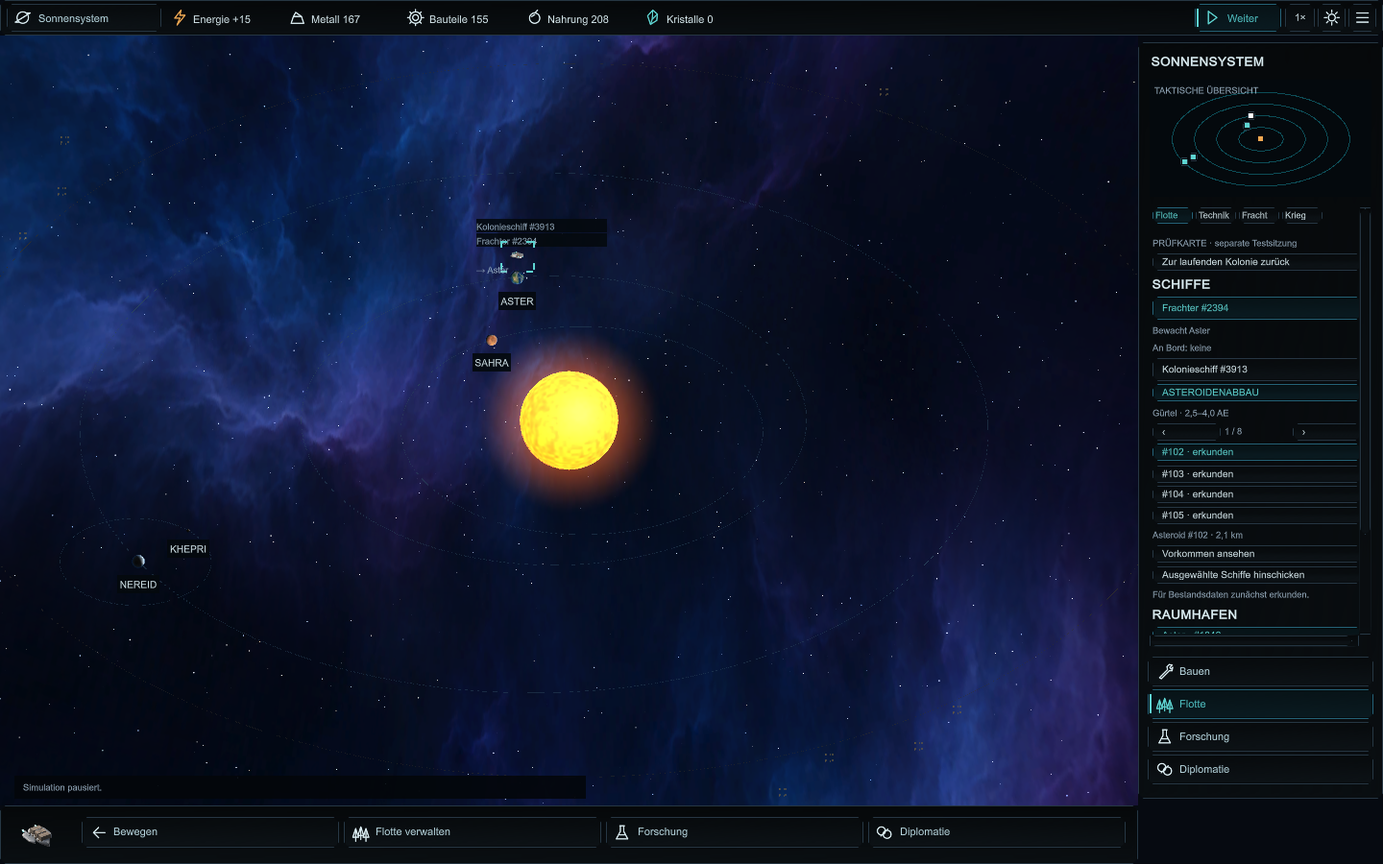
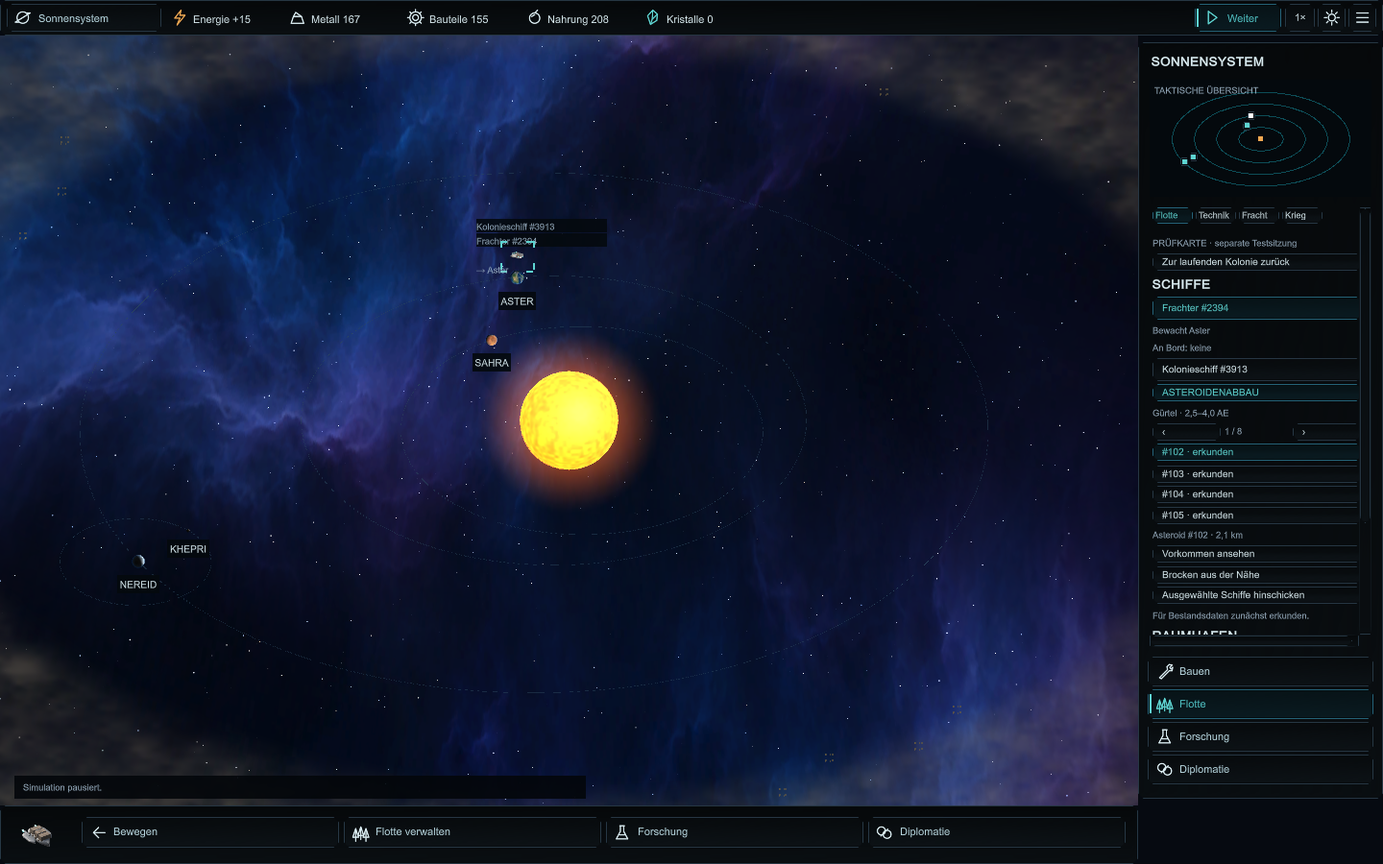
feat: add belt dust and selectable stellar information (1.0.14)

diff --git a/Assets/PlanetOne/Runtime/PrototypeHud.cs b/Assets/PlanetOne/Runtime/PrototypeHud.cs
@@ -11,7 +11,7 @@ namespace PlanetOne.Runtime
         private GUIStyle centerStyle,treeStyle;
         private readonly Dictionary<string,Texture2D> objectPortraits=new Dictionary<string,Texture2D>();
         private static readonly string[] SectionNames={"Übersicht","Bauen","Bodentruppen","Flotte","Forschung","Versorgung","Diplomatie"};
-        private bool HasSelection {get{return openPlanetId==0?selectedShips.Count>0 || simulation.FindPlanet(selectedPlanetId)!=null:selectedBuildingId!=0 || selectedUnits.Count>0;}}
+        private bool HasSelection {get{return openPlanetId==0?StarSelected || selectedShips.Count>0 || simulation.FindPlanet(selectedPlanetId)!=null:selectedBuildingId!=0 || selectedUnits.Count>0;}}
         private bool SelectionCardVisible {get{return CurrentLayout!=InterfaceLayout.CommandCenter && contextOpen && !panelOpen && HasSelection;}}
         private Rect SelectionCardRect(float width){return new Rect(width-302,TopHeight+22,286,244);}
         public bool IsContextCardOpen {get{return SelectionCardVisible;}}
@@ -81,6 +81,7 @@ namespace PlanetOne.Runtime
             if(showingSpacePanel && panelOpen){DrawSpacePanel();return;}
             if(openPlanetId==0)
             {
+                if(StarSelected){DrawStarDetails();return;}
                 if(selectedShips.Count>0 && !panelOpen){DrawSelectionSummary(new Rect(0,0,252,190),false);GUILayout.Space(195);if(GUILayout.Button("Flotte verwalten",buttonStyle,GUILayout.Height(34)))OpenPresentationSection(3);return;}
                 var p=simulation.FindPlanet(selectedPlanetId);
                 if(p!=null && simulation.IsPlanetKnown(PlayerFactionId,p.Id))
@@ -183,6 +184,7 @@ namespace PlanetOne.Runtime
             {labels[0]="Bewegen";icons[0]=HudIcon.Back;actions[0]=delegate{militaryTargetMode=CommandKind.MoveUnit;};labels[1]="Halten";icons[1]=HudIcon.Stop;actions[1]=delegate{foreach(long id in selectedUnits)RequestUnitOrder(id,CommandKind.HoldPosition);};labels[2]="Truppen";icons[2]=HudIcon.Units;actions[2]=delegate{OpenPresentationSection(2);};}
             else if(openPlanetId==0 && selectedShips.Count>0)
             {labels[0]="Bewegen";icons[0]=HudIcon.Back;actions[0]=BeginShipMove;labels[1]="Flotte verwalten";}
+            else if(StarSelected){labels[0]="Sterninfos";icons[0]=HudIcon.Info;actions[0]=OpenStarDetails;}
             else if(openPlanetId==0 && selectedPlanetId>0)
             {labels[0]="Oberfläche";icons[0]=HudIcon.Planet;actions[0]=delegate{OpenSelectedPlanet();};}
             else if(openPlanetId!=0)
@@ -197,10 +199,11 @@ namespace PlanetOne.Runtime
             DrawSelectionSummary(new Rect(card.x+14,card.y+14,card.width-28,158),false);
             if(HudButton(new Rect(card.xMax-35,card.y+8,27,27),"",HudIcon.Close,false,"Auswahlkarte schließen"))CloseContextPanel();
             string action=openPlanetId==0 && selectedShips.Count==0?"Oberfläche öffnen":"Details und Befehle";
+            if(StarSelected)action="Sterndetails";
             var selectedWorld=simulation.FindPlanet(selectedPlanetId);
             if(openPlanetId==0 && selectedShips.Count==0 && selectedWorld!=null && PlanetEnvironment.Airborne(selectedWorld))action="Atmosphäre öffnen";
-            if(HudButton(new Rect(card.x+14,card.yMax-54,card.width-28,38),action,openPlanetId==0 && selectedShips.Count==0?HudIcon.Planet:HudIcon.Info))
-            {if(openPlanetId==0 && selectedShips.Count==0)OpenSelectedPlanet();else {panelOpen=true;contextOpen=true;if(openPlanetId==0)showingSpacePanel=true;}}
+            if(HudButton(new Rect(card.x+14,card.yMax-54,card.width-28,38),action,StarSelected?HudIcon.Info:openPlanetId==0 && selectedShips.Count==0?HudIcon.Planet:HudIcon.Info))
+            {if(StarSelected)OpenStarDetails();else if(openPlanetId==0 && selectedShips.Count==0)OpenSelectedPlanet();else {panelOpen=true;contextOpen=true;if(openPlanetId==0)showingSpacePanel=true;}}
         }
 
         private int KnownPlanetOwner(PlanetState p)
@@ -208,7 +211,7 @@ namespace PlanetOne.Runtime
         private Texture CurrentPortrait()
         {
             if(openPlanetId==0)
-            {var ship=simulation.State.Ships.Find(s=>selectedShips.Contains(s.Id) && !s.Destroyed && !s.Consumed);if(ship!=null)return ShipPortrait(ship.Kind);var p=simulation.FindPlanet(selectedPlanetId);return p==null?null:PlanetPortrait(p);}
+            {if(StarSelected)return StarPortrait();var ship=simulation.State.Ships.Find(s=>selectedShips.Contains(s.Id) && !s.Destroyed && !s.Consumed);if(ship!=null)return ShipPortrait(ship.Kind);var p=simulation.FindPlanet(selectedPlanetId);return p==null?null:PlanetPortrait(p);}
             var planet=simulation.FindPlanet(openPlanetId);var b=FindSelected(planet);if(b!=null)return BuildingIcon(b.Kind);
             var u=planet.Units.Find(v=>selectedUnits.Contains(v.Id)&&!v.Destroyed);return u==null?null:ObjectPortrait("unit"+u.Kind+"-"+planet.Kind,r=>BuildVehicleModel(r,u.Kind,Cyan),0.7f);
         }
@@ -219,6 +222,7 @@ namespace PlanetOne.Runtime
             {
                 var ship=simulation.State.Ships.Find(s=>selectedShips.Contains(s.Id)&&!s.Destroyed&&!s.Consumed);
                 if(ship!=null){title=Definitions.Ships[(int)ship.Kind].Name;type="Eigene Flotte · #"+ship.Id;status=ship.Status;extra="Besatzung  "+ship.Crew;health=(float)(ship.Health/Definitions.SpaceWeapons[(int)ship.Kind].Health);}
+                else if(StarSelected){title="Zentralstern";type=StellarReference.SpectralType+" · Hauptreihenstern";status="Ca. "+StellarReference.EffectiveTemperatureKelvin.ToString("N0")+" K · 1 Sonnenmasse";extra="1 Sonnenradius · 1 Sonnenleuchtkraft";}
                 else {var p=simulation.FindPlanet(selectedPlanetId);if(p!=null){title=p.Name;type=PlanetEnvironment.Name(p.Kind);int owner=KnownPlanetOwner(p);status=owner==PlayerFactionId?"Kolonie aktiv · "+p.Population+" Bewohner":owner==0?"Unbesiedelt":owner<0?"Besitz unbekannt":"Fremde Kolonie";extra=PlanetEnvironment.StellarAu(simulation.State,p).ToString("0.00")+" AE · "+PlanetEnvironment.RadiusEarths(p.Kind).ToString("0.00")+" Erdradien";}}
             }
             else

diff --git a/Assets/PlanetOne/Runtime/PrototypeAsteroids.cs b/Assets/PlanetOne/Runtime/PrototypeAsteroids.cs
@@ -66,24 +66,21 @@ namespace PlanetOne.Runtime
         }
         private void BuildAsteroidViews()
         {
+            foreach(var mesh in beltDustMeshes)Destroy(mesh);beltDustMeshes.Clear();
             asteroidViews.Clear();selectedAsteroidId=0;asteroidPage=0;miningPanel=false;
             foreach(var a in simulation.State.Asteroids)
             {
-                // At most one tenth of the moon's diameter, even at the mesh's widest point.
-                float size=.004f+(float)a.DiameterKm*.0016f;
+                // Three times larger on request; still smaller than a quarter of the moon.
+                float size=.012f+(float)a.DiameterKm*.0048f;
                 var view=Rock(spaceRoot,Vector3.zero,new Vector3(size,size*.7f,size*.9f),(int)a.Id);
                 view.name="Asteroid "+a.Id;view.GetComponent<Renderer>().sharedMaterial=ArtMaterial("Fels",new Color(.43f,.39f,.34f),false);
                 asteroidViews[a.Id]=view;
             }
-            // A chart boundary, not a luminous band or a solid ring of rocks.
-            foreach(var b in simulation.State.AsteroidBelts)foreach(double radius in new[]{b.InnerRadius,b.OuterRadius})
-            {
-                var ring=MakeLine("Gürtelgrenze",spaceRoot,new Color(.16f,.14f,.10f),.012f,true);ring.positionCount=128;
-                for(int i=0;i<128;i++){double angle=i*OrbitalMotion.Tau/128;ring.SetPosition(i,SpacePosition(System.Math.Cos(angle)*radius,System.Math.Sin(angle)*radius));}
-            }
+            foreach(var belt in simulation.State.AsteroidBelts)BuildBeltDust(belt);
         }
         private void UpdateAsteroidViews()
         {
+            UpdateBeltDust();
             foreach(var a in simulation.State.Asteroids)
             {
                 var p=simulation.GetAsteroidPosition(a);var view=asteroidViews[a.Id];
@@ -93,10 +90,15 @@ namespace PlanetOne.Runtime
         }
         private bool PickAsteroid(Vector2 point)
         {
-            long closest=0;float best=12;
+            long closest=0;float best=float.MaxValue;
             foreach(var a in simulation.State.Asteroids)
-            {var screen=sceneCamera.WorldToScreenPoint(asteroidViews[a.Id].position);float d=Vector2.Distance(screen,point);if(screen.z>0 && d<best){closest=a.Id;best=d;}}
+            {var screen=sceneCamera.WorldToScreenPoint(asteroidViews[a.Id].position);float d=Vector2.Distance(screen,point);if(screen.z>0 && d<Mathf.Max(12,AsteroidScreenRadius(a.Id)+5) && d<best){closest=a.Id;best=d;}}
             if(closest==0)return false;SelectAsteroid(closest);return true;
+        }
+        private float AsteroidScreenRadius(long id)
+        {
+            var size=asteroidViews[id].GetComponent<Renderer>().bounds.size;
+            return Mathf.Max(size.x,Mathf.Max(size.y,size.z))*sceneCamera.pixelHeight/(4*sceneCamera.orthographicSize);
         }
         private void DrawAsteroidLabels(float scale)
         {
@@ -104,8 +106,9 @@ namespace PlanetOne.Runtime
             {
                 var point=sceneCamera.WorldToScreenPoint(asteroidViews[a.Id].position);if(point.z<0 || !sceneCamera.pixelRect.Contains(point))continue;
                 var pos=new Vector2(point.x/scale,(Screen.height-point.y)/scale);bool selected=a.Id==selectedAsteroidId;
-                if(selected || spaceZoom<50)DrawTargetBrackets(new Rect(pos.x-4,pos.y-4,8,8),selected?Amber:new Color(.42f,.36f,.24f,.6f));
-                if(selected)GUI.Label(new Rect(pos.x+10,pos.y-8,190,20),"Asteroid #"+a.Id+(simulation.IsAsteroidVisible(PlayerFactionId,a)?" · "+a.RemainingOre+" Erz":" · unerkundet"),smallStyle);
+                float radius=Mathf.Max(4,AsteroidScreenRadius(a.Id)/scale+2);
+                if(selected || spaceZoom<50)DrawTargetBrackets(new Rect(pos.x-radius,pos.y-radius,radius*2,radius*2),selected?Amber:new Color(.42f,.36f,.24f,.6f));
+                if(selected)GUI.Label(new Rect(pos.x+radius+6,pos.y-8,190,20),"Asteroid #"+a.Id+(simulation.IsAsteroidVisible(PlayerFactionId,a)?" · "+a.RemainingOre+" Erz":" · unerkundet"),smallStyle);
             }
         }
         private void DrawMiningPanel()
@@ -124,6 +127,7 @@ namespace PlanetOne.Runtime
             var selected=simulation.State.Asteroids.Find(a=>a.Id==selectedAsteroidId);if(selected==null)return;
             GUILayout.Label("Asteroid #"+selected.Id+" · "+selected.DiameterKm.ToString("0.0")+" km",smallStyle);
             if(GUILayout.Button("Vorkommen ansehen",buttonStyle))FocusAsteroid(selected.Id);
+            if(GUILayout.Button("Brocken aus der Nähe",buttonStyle))InspectAsteroid(selected.Id);
             if(GUILayout.Button("Ausgewählte Schiffe hinschicken",buttonStyle))foreach(long id in selectedShips)RequestAsteroidApproach(id,selected.Id);
             bool visible=simulation.IsAsteroidVisible(PlayerFactionId,selected);
             GUILayout.Label(visible?"Verfügbar: "+(selected.RemainingOre-selected.ReservedOre)+" Erz":"Für Bestandsdaten zunächst erkunden.",smallStyle);

diff --git a/Assets/PlanetOne/Runtime/PrototypeSmokeRunner.cs b/Assets/PlanetOne/Runtime/PrototypeSmokeRunner.cs
@@ -588,7 +588,7 @@ namespace PlanetOne.Runtime
             Require(mining.IsAsteroidVisible(1,deposit),"Scouting reveals the real deposit");
             foreach(var asteroid in mining.State.Asteroids) {
                 var size=controller.AsteroidView(asteroid.Id).GetComponent<Renderer>().bounds.size;
-                Require(Mathf.Max(size.x,Mathf.Max(size.y,size.z))<controller.CelestialView(3).lossyScale.x*.1f,"Asteroid geometry remains below a tenth of the moon diameter: "+asteroid.Id);
+                Require(Mathf.Max(size.x,Mathf.Max(size.y,size.z))<controller.CelestialView(3).lossyScale.x*.25f,"Enlarged asteroid geometry remains below a quarter of the moon diameter: "+asteroid.Id);
             }
             Require(controller.RequestSpaceOrder(CommandKind.MineAsteroid,miner.Id,deposit.Id,1,amount:12),"Mining submitted through the common command adapter");
             AdvanceSeconds(8);yield return null;
@@ -601,6 +601,26 @@ namespace PlanetOne.Runtime
             Require(miner.Mining==null && miner.Freight==null && miner.Cargo[1]==0 && mining.State.SpaceMinedOre==12 && deposit.InitialOre-deposit.RemainingOre==12,"Mined ore returns and unloads once at a working port");
             controller.SetInterfaceLayout(InterfaceLayout.CommandCenter);controller.SelectShip(miner.Id);controller.SelectAsteroid(deposit.Id);
             yield return Capture("asteroid-delivered.png");Require(captureFailure==null,captureFailure??"Mining delivery captured");
+            string beforeMapInspection=SaveCodec.ToJson(mining.State);
+            controller.ShowBeltOverview();yield return null;
+            Require(controller.BeltDustVisibility>.95f,"Belt dust provides an overview cue");
+            yield return Capture("asteroid-dust-overview.png");Require(captureFailure==null,captureFailure??"Dust overview captured");
+            controller.InspectAsteroid(deposit.Id);yield return null;
+            Require(controller.BeltDustVisibility<.01f,"Dust recedes on approach to reveal individual rocks");
+            yield return Capture("asteroid-closeup.png");Require(captureFailure==null,captureFailure??"Individual asteroid captured");
+            foreach(InterfaceLayout layout in Enum.GetValues(typeof(InterfaceLayout)))
+            {
+                controller.SetInterfaceLayout(layout);controller.ShowBeltOverview();yield return null;
+                Vector2 starPoint=Camera.main.WorldToScreenPoint(Vector3.zero);
+                Require(controller.SelectStarAtScreen(starPoint) && controller.StarSelected,"Star click selects its own information card: "+layout);
+                Require(!controller.OpenSelectedPlanet() && controller.OpenPlanetId==0,"Star selection offers no planetary surface: "+layout);
+                controller.SetSettingsVisible(true);Require(!controller.SelectStarAtScreen(starPoint),"Modal settings block star clicks: "+layout);controller.SetSettingsVisible(false);
+                Require(!controller.SelectStarAtScreen(new Vector2(8,Screen.height-8)),"HUD clicks cannot select the star: "+layout);
+                yield return Capture("star-selection-"+layout+".png");Require(captureFailure==null,captureFailure??"Star card captured");
+                controller.OpenStarDetails();yield return null;yield return Capture("star-details-"+layout+".png");Require(captureFailure==null,captureFailure??"Star information captured");
+                Require(controller.SelectPlanet(1) && !controller.StarSelected,"Planet selection replaces star selection: "+layout);
+            }
+            Require(SaveCodec.ToJson(mining.State)==beforeMapInspection,"Belt zoom and star information never mutate resources orders or time");
         }
 
         private void QueueBuild(int planetId, BuildingKind kind, int x, int y)

diff --git a/Assets/PlanetOne/Runtime/PrototypeBeltDust.cs b/Assets/PlanetOne/Runtime/PrototypeBeltDust.cs
@@ -1,0 +1,52 @@
+using System.Collections.Generic;
+using PlanetOne.Core;
+using UnityEngine;
+
+namespace PlanetOne.Runtime
+{
+    public sealed partial class PrototypeController
+    {
+        private readonly List<Mesh> beltDustMeshes=new List<Mesh>();
+        private Material beltDustMaterial;
+        public float BeltDustVisibility {get{return beltDustMaterial==null?0:beltDustMaterial.GetFloat("_Visibility");}}
+        private void BuildBeltDust(AsteroidBelt belt)
+        {
+            if(beltDustMaterial==null)beltDustMaterial=new Material(Resources.Load<Shader>("AsteroidDust"));
+            const int segments=192;
+            var vertices=new Vector3[(segments+1)*2];var uv=new Vector2[vertices.Length];var triangles=new int[segments*6];
+            for(int i=0;i<=segments;i++)
+            {
+                double angle=i*OrbitalMotion.Tau/segments;
+                for(int edge=0;edge<2;edge++)
+                {
+                    double radius=edge==0?belt.InnerRadius:belt.OuterRadius;
+                    vertices[i*2+edge]=SpacePosition(System.Math.Cos(angle)*radius,System.Math.Sin(angle)*radius,-.12f);
+                    uv[i*2+edge]=new Vector2((float)i/segments,edge);
+                }
+                if(i==segments)continue;int start=i*6,v=i*2;
+                triangles[start]=v;triangles[start+1]=v+2;triangles[start+2]=v+1;
+                triangles[start+3]=v+1;triangles[start+4]=v+2;triangles[start+5]=v+3;
+            }
+            var mesh=new Mesh {name="Weicher Asteroidenstaubring",vertices=vertices,uv=uv,triangles=triangles};mesh.RecalculateBounds();beltDustMeshes.Add(mesh);
+            var ring=new GameObject("Asteroidenstaub");ring.transform.SetParent(spaceRoot,false);ring.AddComponent<MeshFilter>().sharedMesh=mesh;
+            var renderer=ring.AddComponent<MeshRenderer>();renderer.sharedMaterial=beltDustMaterial;
+            renderer.shadowCastingMode=UnityEngine.Rendering.ShadowCastingMode.Off;renderer.receiveShadows=false;
+        }
+        private void UpdateBeltDust()
+        {
+            // The map-wide cue recedes smoothly near individual rocks. It never changes deposits.
+            if(beltDustMaterial!=null)beltDustMaterial.SetFloat("_Visibility",Mathf.SmoothStep(0,1,Mathf.InverseLerp(3,32,spaceZoom)));
+        }
+        public void ShowBeltOverview()
+        {
+            if(openPlanetId!=0)return;spaceFocus=Vector3.zero;
+            float extent=12;foreach(var belt in simulation.State.AsteroidBelts)extent=Mathf.Max(extent,(float)belt.OuterRadius*SpaceDistanceScale);
+            spaceZoom=extent*.82f;panelOpen=false;contextOpen=false;UpdateCamera();UpdateBeltDust();
+        }
+        public void InspectAsteroid(long id)
+        {
+            if(openPlanetId!=0)return;var a=simulation.State.Asteroids.Find(v=>v.Id==id);if(a==null)return;
+            SelectAsteroid(id);SetSpaceFocus(asteroidViews[id].position);spaceZoom=.25f;UpdateCamera();UpdateBeltDust();
+        }
+    }
+}

diff --git a/Assets/PlanetOne/Runtime/PrototypeStarSelection.cs b/Assets/PlanetOne/Runtime/PrototypeStarSelection.cs
@@ -1,0 +1,39 @@
+using PlanetOne.Core;
+using UnityEngine;
+
+namespace PlanetOne.Runtime
+{
+    public sealed partial class PrototypeController
+    {
+        public bool StarSelected {get{return openPlanetId==0 && selectedPlanetId==-1 && selectedShips.Count==0 && selectedAsteroidId==0;}}
+        public bool SelectStarAtScreen(Vector2 point)
+        {
+            if(openPlanetId!=0 || !IsWorldPoint(point))return false;
+            var centre=sceneCamera.WorldToScreenPoint(StarView.position);
+            float radius=StarDiameter*sceneCamera.pixelHeight/(4*sceneCamera.orthographicSize);
+            if(centre.z<=0 || Vector2.Distance(centre,point)>radius+4)return false;
+            selectedPlanetId=-1;selectedShips.Clear();selectedAsteroidId=0;miningPanel=false;contextOpen=true;panelOpen=false;
+            showingSpacePanel=false;showingDiplomacy=false;presentationSection=0;lastClickedPlanet=0;sidebarScroll=Vector2.zero;return true;
+        }
+        public void OpenStarDetails()
+        {if(!StarSelected)return;contextOpen=true;panelOpen=true;showingSpacePanel=false;showingDiplomacy=false;presentationSection=0;sidebarScroll=Vector2.zero;}
+        private Texture2D StarPortrait()
+        {
+            return ObjectPortrait("central-star",root=>{
+                var body=MakePrimitive(PrimitiveType.Sphere,"Stern",root,Vector3.zero,Vector3.one*1.5f,new Color(1,.5f,.055f));CreateStarCorona(body);
+            },1.6f);
+        }
+        private void DrawStarDetails()
+        {
+            GUILayout.Label("ZENTRALSTERN",headingStyle);Rect portrait=GUILayoutUtility.GetRect(160,100);GUI.DrawTexture(portrait,StarPortrait(),ScaleMode.ScaleToFit);
+            GUILayout.Label("Gelber Hauptreihenstern · "+StellarReference.SpectralType,bodyStyle);GUILayout.Space(10);
+            GUILayout.Label("Masse     "+StellarReference.MassSolar.ToString("0.0")+" Sonnenmassen",smallStyle);
+            GUILayout.Label("Radius     "+StellarReference.RadiusKm.ToString("N0")+" km",smallStyle);
+            GUILayout.Label("Temperatur     ca. "+StellarReference.EffectiveTemperatureKelvin.ToString("N0")+" K",smallStyle);
+            GUILayout.Label("Leuchtkraft     "+StellarReference.LuminositySolar.ToString("0.0")+" Sonnenleuchtkräfte",smallStyle);
+            GUILayout.Space(12);GUILayout.Label("Zentrum des Sternsystems. Sein Licht versorgt die Welten; Abstand und Atmosphäre bestimmen deren Klima.",mutedStyle);
+            GUILayout.Label("Nicht besiedelbar",smallStyle);
+            if(GUILayout.Button("Ansicht auf Stern zentrieren",buttonStyle))SetSpaceFocus(Vector3.zero);
+        }
+    }
+}

diff --git a/Assets/PlanetOne/Runtime/PrototypeController.cs b/Assets/PlanetOne/Runtime/PrototypeController.cs
@@ -138,6 +138,7 @@ namespace PlanetOne.Runtime
         private void OnDestroy()
         {
             if (hexMesh != null) Destroy(hexMesh);
+            foreach(var mesh in beltDustMeshes)Destroy(mesh);if(beltDustMaterial!=null)Destroy(beltDustMaterial);
             foreach(var mesh in modelMeshes.Values)Destroy(mesh);
             foreach(var material in celestialMaterials.Values)Destroy(material);
             foreach(var icon in hudIcons.Values)Destroy(icon);
@@ -214,6 +215,7 @@ namespace PlanetOne.Runtime
                 }
                 if (chosen != 0)
                 {SelectPlanet(chosen);if(lastClickedPlanet==chosen && Time.unscaledTime-lastPlanetClick<0.35f)OpenSelectedPlanet();lastClickedPlanet=chosen;lastPlanetClick=Time.unscaledTime;}
+                else SelectStarAtScreen(Input.mousePosition);
                 return;
             }
 

diff --git a/Assets/PlanetOne/Core/StellarReference.cs b/Assets/PlanetOne/Core/StellarReference.cs
@@ -1,0 +1,11 @@
+namespace PlanetOne.Core
+{
+    // Fixed solar analogue used by the existing orbit/climate reference model.
+    // These are descriptive reference values, not newly simulated stellar evolution.
+    public static class StellarReference
+    {
+        public const string SpectralType="G2 V";
+        public const double MassSolar=1,RadiusSolar=1,LuminositySolar=1;
+        public const int RadiusKm=695700,EffectiveTemperatureKelvin=5770;
+    }
+}

diff --git a/Assets/PlanetOne/Runtime/PrototypeOrbitCamera.cs b/Assets/PlanetOne/Runtime/PrototypeOrbitCamera.cs
@@ -32,7 +32,7 @@ namespace PlanetOne.Runtime
         }
         public void SetSpaceFocus(Vector3 focus)
         {
-            spaceFocus=new Vector3(Mathf.Clamp(focus.x,-250,250),0,Mathf.Clamp(focus.z,-250,250));
+            spaceFocus=new Vector3(Mathf.Clamp(focus.x,-250,250),Mathf.Clamp(focus.y,-8,8),Mathf.Clamp(focus.z,-250,250));
             UpdateCamera();
         }
         public bool BeginSpacePan(Vector2 screenPoint)

diff --git a/docs/ASTEROIDEN_NACHWEIS.md b/docs/ASTEROIDEN_NACHWEIS.md
@@ -2,11 +2,11 @@
 
 ## Auftrag und Bedienung
 
-D-033 / GUI-010 / SPACE-011 / ECO-015 / TEST-029: kleinere Planeten, Monde und Asteroiden, größere sichtbare Bahnabstände, zufällig verteilte Rohstoffgürtel und korrekt mitverschobene Korona. Diese Erweiterung baut auf 1.0.13 auf und schließt M8 nicht vorzeitig ab.
+D-033/034 / GUI-010/011 / SPACE-011 / ECO-015 / TEST-029/030: kleinere Planeten und Monde, besser erkennbare Asteroiden mit weichem Nebelring, größere sichtbare Bahnabstände, zufällig verteilte Rohstoffgürtel, korrekt mitverschobene Korona und Sterninfokarten. Diese Erweiterung baut auf 1.0.13 auf; der danach beauftragte M8 wird getrennt umgesetzt.
 
 Die Schaltflächen **Diplomatische Partie** und **Gegen Computer spielen** im Spielmenü erzeugen jetzt jeweils einen neuen System-Seed. Es gibt weiterhin ein Sternsystem pro Partie. 65 Prozent der Seeds wählen einen Gürtel, sofern die Konfiguration genug freien Raum bietet. Der feste ursprüngliche Start-Seed 12345 hat keinen Gürtel; bestehende Spielstände behalten ebenfalls ihre ursprüngliche Geografie.
 
-1. **Flotte → Asteroidenabbau** öffnen und ein Vorkommen aus der blätterbaren Liste wählen. Alternativ dessen kleine Zielmarke in der Welt anklicken. **Vorkommen ansehen** verschiebt die Kamera dorthin.
+1. **Flotte → Asteroidenabbau** öffnen und ein Vorkommen aus der blätterbaren Liste wählen. Alternativ dessen kleine Zielmarke in der Welt anklicken. **Vorkommen ansehen** verschiebt die Kamera dorthin, **Brocken aus der Nähe** zentriert eine Nahansicht einschließlich optischer Bahnneigung. Der Staubring blendet beim Heranzoomen weich aus.
 2. Schiff auswählen und **Ausgewählte Schiffe hinschicken** verwenden. Kartierte Position und Durchmesser sind öffentlich; Bestände erscheinen erst bei aktueller Sensoraufklärung.
 3. Einen freien eigenen Frachter auswählen, Raumtransport erforschen und einen eigenen Raumhafen als Rücknahmehafen wählen. **Erz abbauen und heimbringen** reserviert bis zu 40 Erz und den tatsächlichen freien Lagerplatz dieses Hafens.
 4. Der Frachter fliegt zum bewegten Asteroiden, gewinnt alle 1,5 Sekunden ein Erz und nimmt es an Bord. Anschließend fliegt er zum bewegten Zielplaneten und nutzt dessen betriebsfähigen Hafenanschluss für die Entladung mit 0,5 Sekunden je Erz.
@@ -18,7 +18,7 @@ Die Schaltflächen **Diplomatische Partie** und **Gegen Computer spielen** im Sp
 
 Im Sonnensystem liegt der Hauptasteroidengürtel zwischen Mars und Jupiter. Seine Körper reichen von kleinen Felsbrocken bis zu hunderten Kilometern Durchmesser. Das begründet die Einordnung als kleinere Körper zwischen inneren Gesteinswelten und äußerem Riesenplaneten. [NASA: Asteroids](https://science.nasa.gov/solar-system/asteroids/).
 
-Die NASA erläutert den Hauptgürtel näherungsweise mit 2,2–3,2 AE und betont die sehr großen leeren Zwischenräume. Deshalb erscheinen hier weit voneinander entfernte Körper und zurückhaltende Kartengrenzen; kein dichter Hindernisring. Die konkreten Spielbahnen sind aus der vorhandenen Planetenkonfiguration abgeleitet: etwa **2,46–4 AE** im Ausgangssystem mit Gürtel und **3,3–4 AE** in der diplomatischen Partie mit Helios. Das sind Spielkonfigurationen, keine behaupteten Messwerte eines realen Systems. [NASA Dawn: FAQ](https://science.nasa.gov/mission/dawn/faq/).
+Die NASA erläutert den Hauptgürtel näherungsweise mit 2,2–3,2 AE und betont die sehr großen leeren Zwischenräume. Deshalb bleiben die einzelnen Körper weit voneinander entfernt. Der auf Nutzerwunsch deutlich sichtbare Nebelring ist eine stilisierte Orientierungshilfe, keine Behauptung eines real so dichten sichtbaren Hauptgürtels und kein Hindernis. Die konkreten Spielbahnen sind aus der vorhandenen Planetenkonfiguration abgeleitet: etwa **2,46–4 AE** im Ausgangssystem mit Gürtel und **3,3–4 AE** in der diplomatischen Partie mit Helios. Das sind Spielkonfigurationen, keine behaupteten Messwerte eines realen Systems. [NASA Dawn: FAQ](https://science.nasa.gov/mission/dawn/faq/).
 
 Der Generator verwendet 32 abbaubare Repräsentanten mit 0,2–8 km Modelldurchmesser, 80–320 Erz und geringer optischer Bahnneigung. Kreisbahnen mit `T ∝ a^(3/2)` sind der Kepler-Sonderfall. Häufigkeit, Lagerstättenmenge, Abbautempo und integrierte Bergbaudrohnen sind Balance-/Technikannahmen. Im aktuellen Warenmodell liefern die Vorkommen Erz; dessen bestehende Verhüttung erzeugt Metall. Weitere Mineralarten, Wassereisgewinnung, Resonanzen, Kollisionen, Gravitation mehrerer Körper und eine autonome neue KI-Bergbaustrategie sind nicht implementiert.
 
@@ -34,11 +34,19 @@ Der Generator verwendet 32 abbaubare Repräsentanten mit 0,2–8 km Modelldurchm
 | Nereid | 1,08 |
 | Sahra / Helios | 0,984 |
 | Khepri / Mond | 0,28 |
-| Asteroiden, inklusive unregelmäßiger Mesh-Ausdehnung | unter 0,028 |
+| Asteroiden, inklusive unregelmäßiger Mesh-Ausdehnung | unter 0,07 |
 
 Alle Raumpositionen werden um Faktor **2,2** auseinandergezogen. Dazu gehören Orbitlinien, Körper, Schiffe, alte Sichtungen und Orbitalbereiche. Zielklicks rechnen denselben Faktor zurück. Physikalische AE, Klimarichtwerte und die gemeinsame Simulation ändern sich nicht durch Kamera oder Zoom. Das Mausrad zoomt proportional und erlaubt auch kleine Zielgebiete. Körpergrößen und besonders taktisch erkennbare Schiffe bleiben für Bedienbarkeit gegenüber astronomischen Entfernungen überhöht; dies ist kein durchgängig maßstabsgetreues Modell.
 
+Auf ergänzenden Nutzerwunsch wurde die Asteroidengeometrie gegenüber dem ersten Commit `032d9f3` um Faktor drei vergrößert. Der Staubring liegt als transparentes, weich auslaufendes Ringmesh im Gürtelbereich. Prozedurale Wolkenstruktur ersetzt harte Begrenzungslinien. Zwischen Orthogrößen 32 und 3 nimmt seine Sichtbarkeit weich ab; die reale Abbaulogik und alle Vorkommen bleiben davon unabhängig. Auswahlrahmen, Klickfläche und Textabstand passen sich der projizierten Größe des jeweiligen Brockens an.
+
 Der Korona-/Atmosphärenshader berechnete vorher jeden Blickvektor zur Kameraposition. Das ist nur bei perspektivischer Projektion richtig. Bei der orthografischen Hauptkamera verwendet er jetzt die parallele Blickrichtung aus der View-Matrix. Die Korona bleibt dadurch um den Stern zentriert, auch außerhalb der Bildschirmmitte und nach Rotation.
+
+## Sterninformationen
+
+Ein Sternklick öffnet in allen drei Layouts seine eigene Auswahl. **Sterndetails** zeigt ein Porträt und die Referenzwerte des vorhandenen sonnenähnlichen Sternmodells: G2 V, eine Sonnenmasse, ein Sonnenradius (695.700 km), etwa 5.770 K effektive Temperatur und eine Sonnenleuchtkraft. Die Werte sind in `StellarReference` gebündelt; variable Sterntypen oder Sternentwicklung werden dadurch nicht vorgetäuscht. [NASA Sun Facts](https://science.nasa.gov/sun/facts/), [NASA Sun Fact Sheet](https://nssdc.gsfc.nasa.gov/planetary/factsheet/sunfact.html?level=1), [NASA Marshall Solar Physics](https://solarscience.msfc.nasa.gov/).
+
+Der Stern hat keine Oberflächenaktion. Sternauswahl, Planetenauswahl, Detailfenster, Zentrieren und Layoutwechsel sind Darstellung; Menü-/HUD-Flächen sperren Sternklicks. Bestehende Spielstände benötigen für diese Ergänzung keine weitere Schemaversion.
 
 ## Zustandsintegrität
 
@@ -63,9 +71,9 @@ powershell -ExecutionPolicy Bypass -File tools/Version.ps1 -Action Check
 
 - **149 Core-Tests bestanden**, darunter neun neue Verhaltensszenarien für Generator, Sicht/Berechtigung, konkurrierende Abbauansprüche, genaue Hafenwahl, Warenbilanz, Abbruch/Verlust, feindliche Hafenübernahme, Fortsetzung und Manipulationsabwehr sowie echte V10-Migration.
 - **Unity 6000.3.29f1 Windows-Build erfolgreich**; Player unter `Builds/Windows/PlanetOne.exe`, Produktversion 1.0.14 synchron geprüft.
-- **Je 354 Player-Prüfbedingungen und 86 PNGs** in GUI 1440 × 900 (`TestResults/Presentation/20261125-095640`), GUI 1280 × 720 (`TestResults/Presentation/20261125-095755`) und GPU-Batchlauf (`TestResults/Smoke/20261125-095932`). Das zusätzliche `PASS` am Anfang der Protokolle ist das Gesamtergebnis, keine weitere Prüfbedingung.
+- **Je 380 Player-Prüfbedingungen und 94 PNGs** in GUI 1440 × 900 (`TestResults/Presentation/20261125-101817`), GUI 1280 × 720 (`TestResults/Presentation/20261125-102034`) und GPU-Batchlauf (`TestResults/Smoke/20261125-102202`). Das zusätzliche `PASS` am Anfang der Protokolle ist das Gesamtergebnis, keine weitere Prüfbedingung.
 - Der Koronatest rendert das tatsächliche Koronamaterial über eine GPU-Kamera mittig sowie auf beiden Seiten, einschließlich gedrehter Blickrichtung. Die relative mittlere Abweichung zwischen gespiegelten Helligkeitsproben bleibt unter drei Prozent. Zusätzlich wurden die echten Spielbilder kontrolliert.
-- Tatsächliche Mesh-Ausdehnungen aller 32 Asteroiden bleiben unter einem Zehntel des Monddurchmessers. Der Player fliegt einen Frachter zum Vorkommen, zeigt Teilfracht, lädt den laufenden Auftrag identisch wieder und weist 12 geförderte sowie vollständig zurückgelieferte Erz nach.
+- Tatsächliche Mesh-Ausdehnungen aller 32 vergrößerten Asteroiden bleiben unter einem Viertel des Monddurchmessers. Der Player fliegt einen Frachter zum Vorkommen, zeigt Teilfracht, lädt den laufenden Auftrag identisch wieder und weist 12 geförderte sowie vollständig zurückgelieferte Erz nach. Zusätzliche Prüfungen zeigen Ring/Nahansicht, Sternauswahl, HUD-Sperren und unveränderten Simulationszustand in allen Layouts.
 - Keine Exceptions, GUILayout-Fehler oder Shaderwarnungen in den drei finalen Playerlogs. Der Batchlauf zeichnet die Welt über `Camera.Render` auf; die beiden getrennten Desktopläufe enthalten auch echtes IMGUI.
 
 Die GUI lief auf einem separaten, nie aktivierten Windows-Desktop. Kein Screenreader, Computer-Use, sichtbarer App-Start oder globaler Maus-/Tastaturzugriff. Die Prüfungen sind programmatische Integrations- und Rendernachweise mit anschließender Bildkontrolle; sie behaupten keine vollständige manuelle Bedienbarkeitsabnahme oder Leistungsmessung einer großen Partie.
@@ -77,6 +85,10 @@ Die GUI lief auf einem separaten, nie aktivierten Windows-Desktop. Kein Screenre
 - [Abbau mit tatsächlicher Teilfracht und Rücknahmehafen](ASTEROIDEN_1_0_14/asteroid-mining-OrbitalBridge.png)
 - [Abbauverwaltung bei 1280 × 720](ASTEROIDEN_1_0_14/asteroid-mining-1280.png)
 - [Abgeschlossene Rücklieferung](ASTEROIDEN_1_0_14/asteroid-delivered.png)
+- [Diffuser Gürtel in der Systemübersicht](ASTEROIDEN_1_0_14/asteroid-dust-overview.png)
+- [Einzelner Brocken in der Nahansicht](ASTEROIDEN_1_0_14/asteroid-closeup.png)
+- [Sterninformationen in der Kommandozentrale](ASTEROIDEN_1_0_14/star-details-CommandCenter.png)
+- [Sternauswahl bei 1280 × 720](ASTEROIDEN_1_0_14/star-selection-1280.png)
 
 ## Git-Integration
 

diff --git a/docs/DECISIONS.md b/docs/DECISIONS.md
@@ -2,8 +2,10 @@
 
 ## Größenverhältnisse, Korona und Asteroidengürtel (25. November 2026)
 
+- **D-034, ergänzende Vorgabe:** Asteroiden etwas größer darstellen, den Gürtel als nebligen Ring deutlicher erkennen lassen und beim Hineinzoomen einzelne Brocken zeigen. Sternklick soll ähnlich der Planetenauswahl Informationen öffnen. Danach M8 umsetzen.
+- **T-051, entschieden:** Asteroidengeometrie dreimal größer als der erste 1.0.14-Stand, weiterhin kleiner als ein Viertel des Monddurchmessers. Weicher prozeduraler Staubring in der realen Gürtelebene mit Zoom-Ausblendung zwischen Orthogrößen 32 und 3; Nahansicht berücksichtigt die optische Bahnneigung. Das ist eine Kartendarstellung, kein neues Kollisions- oder Rohstoffmodell. Der feste sonnenähnliche Zentralstern erhält eine eigene Auswahlkarte und Details in allen drei Layouts; Werte aus `StellarReference`, keine simulierte Sternentwicklung und keine Oberflächenaktion. [Nachweis und Sternquellen](ASTEROIDEN_NACHWEIS.md).
 - **D-033, Vorgabe:** Planetenradius höchstens halb so groß wie der Sternradius; kleinere Monde und Asteroiden, größere Sternabstände. Zufällige Gürtel in geeigneten Systemen dienen dem Rohstoffabbau. Zusätzlich soll die Korona beim Verschieben gleichmäßig um den Stern leuchten.
-- **T-048, entschieden:** Einheitliche Umrechnung der Systemdarstellung mit Faktor 2,2 für Bahnen, Planeten, Schiffe, Sichtungsmarken, Orbitalbereiche und inverse Zielprojektion. Astronomische AE, Klimazonen, Flugzeiten und Keplerperioden bleiben bestehen. Sterndurchmesser 8,6; Planeten maximal 4,3 (Gasriese tatsächlich 4,1), Mond 0,28; Asteroiden einschließlich Mesh-Ausdehnung kleiner als 0,028. Körper und Schiffssymbole bleiben gegenüber Bahnabständen für Bedienbarkeit überhöht. Korona und Atmosphären verwenden bei orthografischer Projektion parallele Blickrichtungen statt des Vektors zur Kameraposition.
+- **T-048, entschieden:** Einheitliche Umrechnung der Systemdarstellung mit Faktor 2,2 für Bahnen, Planeten, Schiffe, Sichtungsmarken, Orbitalbereiche und inverse Zielprojektion. Astronomische AE, Klimazonen, Flugzeiten und Keplerperioden bleiben bestehen. Sterndurchmesser 8,6; Planeten maximal 4,3 (Gasriese tatsächlich 4,1), Mond 0,28; Asteroiden einschließlich Mesh-Ausdehnung nach T-051 kleiner als 0,07. Körper und Schiffssymbole bleiben gegenüber Bahnabständen für Bedienbarkeit überhöht. Korona und Atmosphären verwenden bei orthografischer Projektion parallele Blickrichtungen statt des Vektors zur Kameraposition.
 - **T-049, entschieden:** Beim Erzeugen einer Partie bestimmt ein gespeicherter Seed mit 65 Prozent Auswahlwahrscheinlichkeit einen Gürtel, sofern mindestens 0,3 AE freie Breite vorhanden ist. Innenkante hinter der größten Apoapsis der Gesteinsplaneten plus 0,5 AE; Außenkante vor der Periapsis des Gasriesen minus 0,5 AE, höchstens 4 AE. 32 weit verteilte abbaubare Körper, 0,2–8 km Modelldurchmesser, 80–320 Erz pro Körper. Kreisbahnen sind der Kepler-Sonderfall; eine geringe Neigung betrifft die Darstellung. Die Wahrscheinlichkeit, Anzahl, Erzmengen und technische Gewinnbarkeit sind Spielentscheidungen, keine astronomischen Messwerte. [NASA-Quellen und Modellgrenzen](ASTEROIDEN_NACHWEIS.md).
 - **T-050, entschieden:** Vorhandene bezahlte Frachter verfügen mit Raumtransport über integrierte Bergbaudrohnen. Abbau benötigt aktuelle Aufklärung, freie Ladekapazität und einen eigenen Rücknahmehafen. Vorkommen und Hafenplatz werden gemeinsam reserviert; pro 1,5 Sekunden wird ein Erz aus dem Asteroiden in die reale Schiffsladung übertragen. Rückflug, Hafenbetrieb und Entladung verwenden die bestehende Raumlogistik. Abbruch, Verlust, Besitzwechsel und konkurrierende Aufträge dürfen keine Ware duplizieren. Schema 11 speichert Gürtel, Vorkommen, Abbaufortschritt und Bilanz; V10-Migration ergänzt leere Listen, ohne alte Weltzustände zu verändern. KI darf dieselbe Schnittstelle verwenden; autonome Auswahl von Bergbauzielen ist noch kein neuer KI-Planer.
 

diff --git a/docs/GAME_DESIGN.md b/docs/GAME_DESIGN.md
@@ -12,7 +12,8 @@
 - **GUI-007:** Auswahl und Szenenwechsel sind getrennt. Ein Planetenklick zeigt bekannte Objektdaten und eine ausdrückliche Oberflächenaktion; ein Doppelklick darf diese direkt ausführen. B/C verwenden kompakte schließbare Auswahlkarten. Kopfzeile, Karten und Verwaltungsfenster dürfen keine Weltbefehle auslösen oder einen wartenden Zielbefehl verbrauchen. Ein gültiges Ziel wird durch dieselbe validierte Befehlsschnittstelle wie andere Eingaben verarbeitet.
 - **GUI-008:** Die Systemkamera kann mit Rechtsziehen vom Zentralstern weg verschoben werden; kurze Rechtsklicks und Ziehen sind getrennte Gesten. Der Hintergrund ist räumlich fest, folgt der Blickrotation und zeigt beim Verschieben eine schwache, entfernungsabhängige Parallaxe. Planeten besitzen langsame Eigenrotation. Es gibt kein dem Mauszeiger folgendes Informationspopup; Namensschilder sind Textbreite plus je ein Leerzeichen links/rechts.
 - **GUI-009:** Auch die Oberfläche lässt sich mit Rechtsziehen verschieben. Ziehen sendet keinen Einheitenbefehl; kurze Rechtsklicks senden erst beim Loslassen oder beenden einen Bau-/Zielmodus. GUI-Flächen können keine Geste starten. Planetentextur, Landschaft und Modelle entsprechen dem gespeicherten Typ; Gaswelten zeigen schwebende Basen und Fluggeräte. Pause hält die Eigenrotation an.
-- **GUI-010:** Der sichtbare Planetenradius überschreitet nie den halben Sternradius. Monde bleiben deutlich kleiner als ihre Hauptwelt, Asteroiden kleiner als ein Zehntel des Monddurchmessers. Alle Raumpositionen und Eingabeprojektionen verwenden denselben vergrößerten Entfernungsmaßstab. Die Korona bleibt bei orthografischem Schwenken um den Stern zentriert. Kleine Asteroiden sind zusätzlich über kartierte Zielmarken und die Flottenverwaltung auswählbar.
+- **GUI-010:** Der sichtbare Planetenradius überschreitet nie den halben Sternradius. Monde bleiben deutlich kleiner als ihre Hauptwelt, Asteroiden auf ergänzenden Nutzerwunsch kleiner als ein Viertel des Monddurchmessers. Ein diffuser Staubring markiert den Gürtel und blendet beim Annähern aus. Alle Raumpositionen und Eingabeprojektionen verwenden denselben vergrößerten Entfernungsmaßstab. Die Korona bleibt bei orthografischem Schwenken um den Stern zentriert. Kleine Asteroiden sind zusätzlich über kartierte Zielmarken und die Flottenverwaltung auswählbar; Nahansicht und Zielmarken berücksichtigen ihre tatsächliche räumliche Lage und Größe.
+- **GUI-011:** Der Zentralstern ist in allen drei Layouts auswählbar. Seine Karte und Detailansicht zeigen Typ, Masse, Radius, Temperatur und Leuchtkraft des festen Sternmodells. Ein Stern besitzt keine besiedelbare Oberfläche. Auswahl, Detailanzeige, Zentrieren und Layoutwechsel verändern weder Zeit noch Befehle oder Ressourcen. Menüs und GUI-Flächen sperren darunterliegende Sternklicks.
 
 Umsetzung und Prüfumfang: [GUI_WELTRAUM_NACHWEIS](GUI_WELTRAUM_NACHWEIS.md), historischer [GUI_GRAFIK_NACHWEIS](GUI_GRAFIK_NACHWEIS.md).
 

diff --git a/docs/ACCEPTANCE_TESTS.md b/docs/ACCEPTANCE_TESTS.md
@@ -1,10 +1,17 @@
 # Abnahmeszenarien für PlanetOne
 
+## TEST-030 Sternauswahl und Gürtelannäherung
+
+- **Grundlage:** D-034, T-051, GUI-010/011.
+- In allen Layouts den Stern über dieselbe Bildschirmprojektion wie beim Mausklick auswählen. Eigene Infokarte, Porträt, G2-V-Typ und Referenzwerte müssen erscheinen; Sterndetails zeigen Masse, Radius, Temperatur und Leuchtkraft. Keine Oberflächenaktion für den Stern. Eine anschließende Planetenauswahl ersetzt die Sternauswahl.
+- Modale Einstellungen und HUD-Flächen blockieren Sternauswahl. Alle Auswahl-/Zoomaktionen lassen den vollständigen gespeicherten Simulationszustand unverändert.
+- Weichen Staubring in Systemübersicht und nach Kameradrehung kontrollieren. Beim Heranzoomen tritt der Ring zurück; Nahansicht zentriert den einzelnen dreidimensionalen Brocken einschließlich seiner optischen Bahnneigung. Auswahlmarkierung und Beschriftung dürfen den größeren Brocken nicht überdecken.
+
 ## TEST-029 Größenverhältnisse, Sonnenkorona und Asteroidenabbau
 
 - **Grundlage:** D-033, T-048 bis T-050, GUI-010, SPACE-011, ECO-015; zusätzliche Arbeit auf M7, kein Abschluss von M8.
 - Mehrere Seeds erzeugen sowohl Systeme mit als auch ohne Gürtel. Derselbe Seed erzeugt denselben Zustand. Gürtel schneiden keine planetaren Peri-/Apoapsisbereiche, auch nach Hinzufügen von Helios. Speichern, Laden und Ansichtswechsel würfeln keine Vorkommen neu.
-- Planetenkugeln erreichen maximal den halben Sternradius; Mond kleiner als 30 Prozent des Hauptplaneten, tatsächliche Asteroiden-Mesh-Ausdehnung kleiner als zehn Prozent des Monddurchmessers. Bahnen, Schiffe und Auswahlziele bleiben deckungsgleich.
+- Planetenkugeln erreichen maximal den halben Sternradius; Mond kleiner als 30 Prozent des Hauptplaneten, tatsächliche Asteroiden-Mesh-Ausdehnung auf ergänzenden Nutzerwunsch kleiner als 25 Prozent des Monddurchmessers. Bahnen, Schiffe und Auswahlziele bleiben deckungsgleich.
 - Korona mittig, seitlich verschoben und mit gedrehter Kamera prüfen: GPU-Pixelvergleich der Leuchtstärke links/rechts des Sterns, zusätzlich sichtbare Systembilder. Kein einseitiger Lichtsaum zur Bildschirmmitte.
 - Unaufgeklärte Asteroiden zeigen keine Bestände. Fremde, beschäftigte oder ungeeignete Schiffe sowie fehlende Technologie, erschöpfte Vorkommen und volle Häfen werden abgewiesen. Bei mehreren Häfen wird der ausdrücklich gewählte Hafen reserviert.
 - Zwei Frachter können dieselbe endliche Lagerstätte nicht überbuchen. Teilabbau befindet sich wirklich an Bord, senkt den Restbestand und erhöht den gemeinsamen Abbauzähler genau einmal. Anflug, Abbau, Rückflug und zeitabhängige Hafenentladung sind getrennte Phasen.
